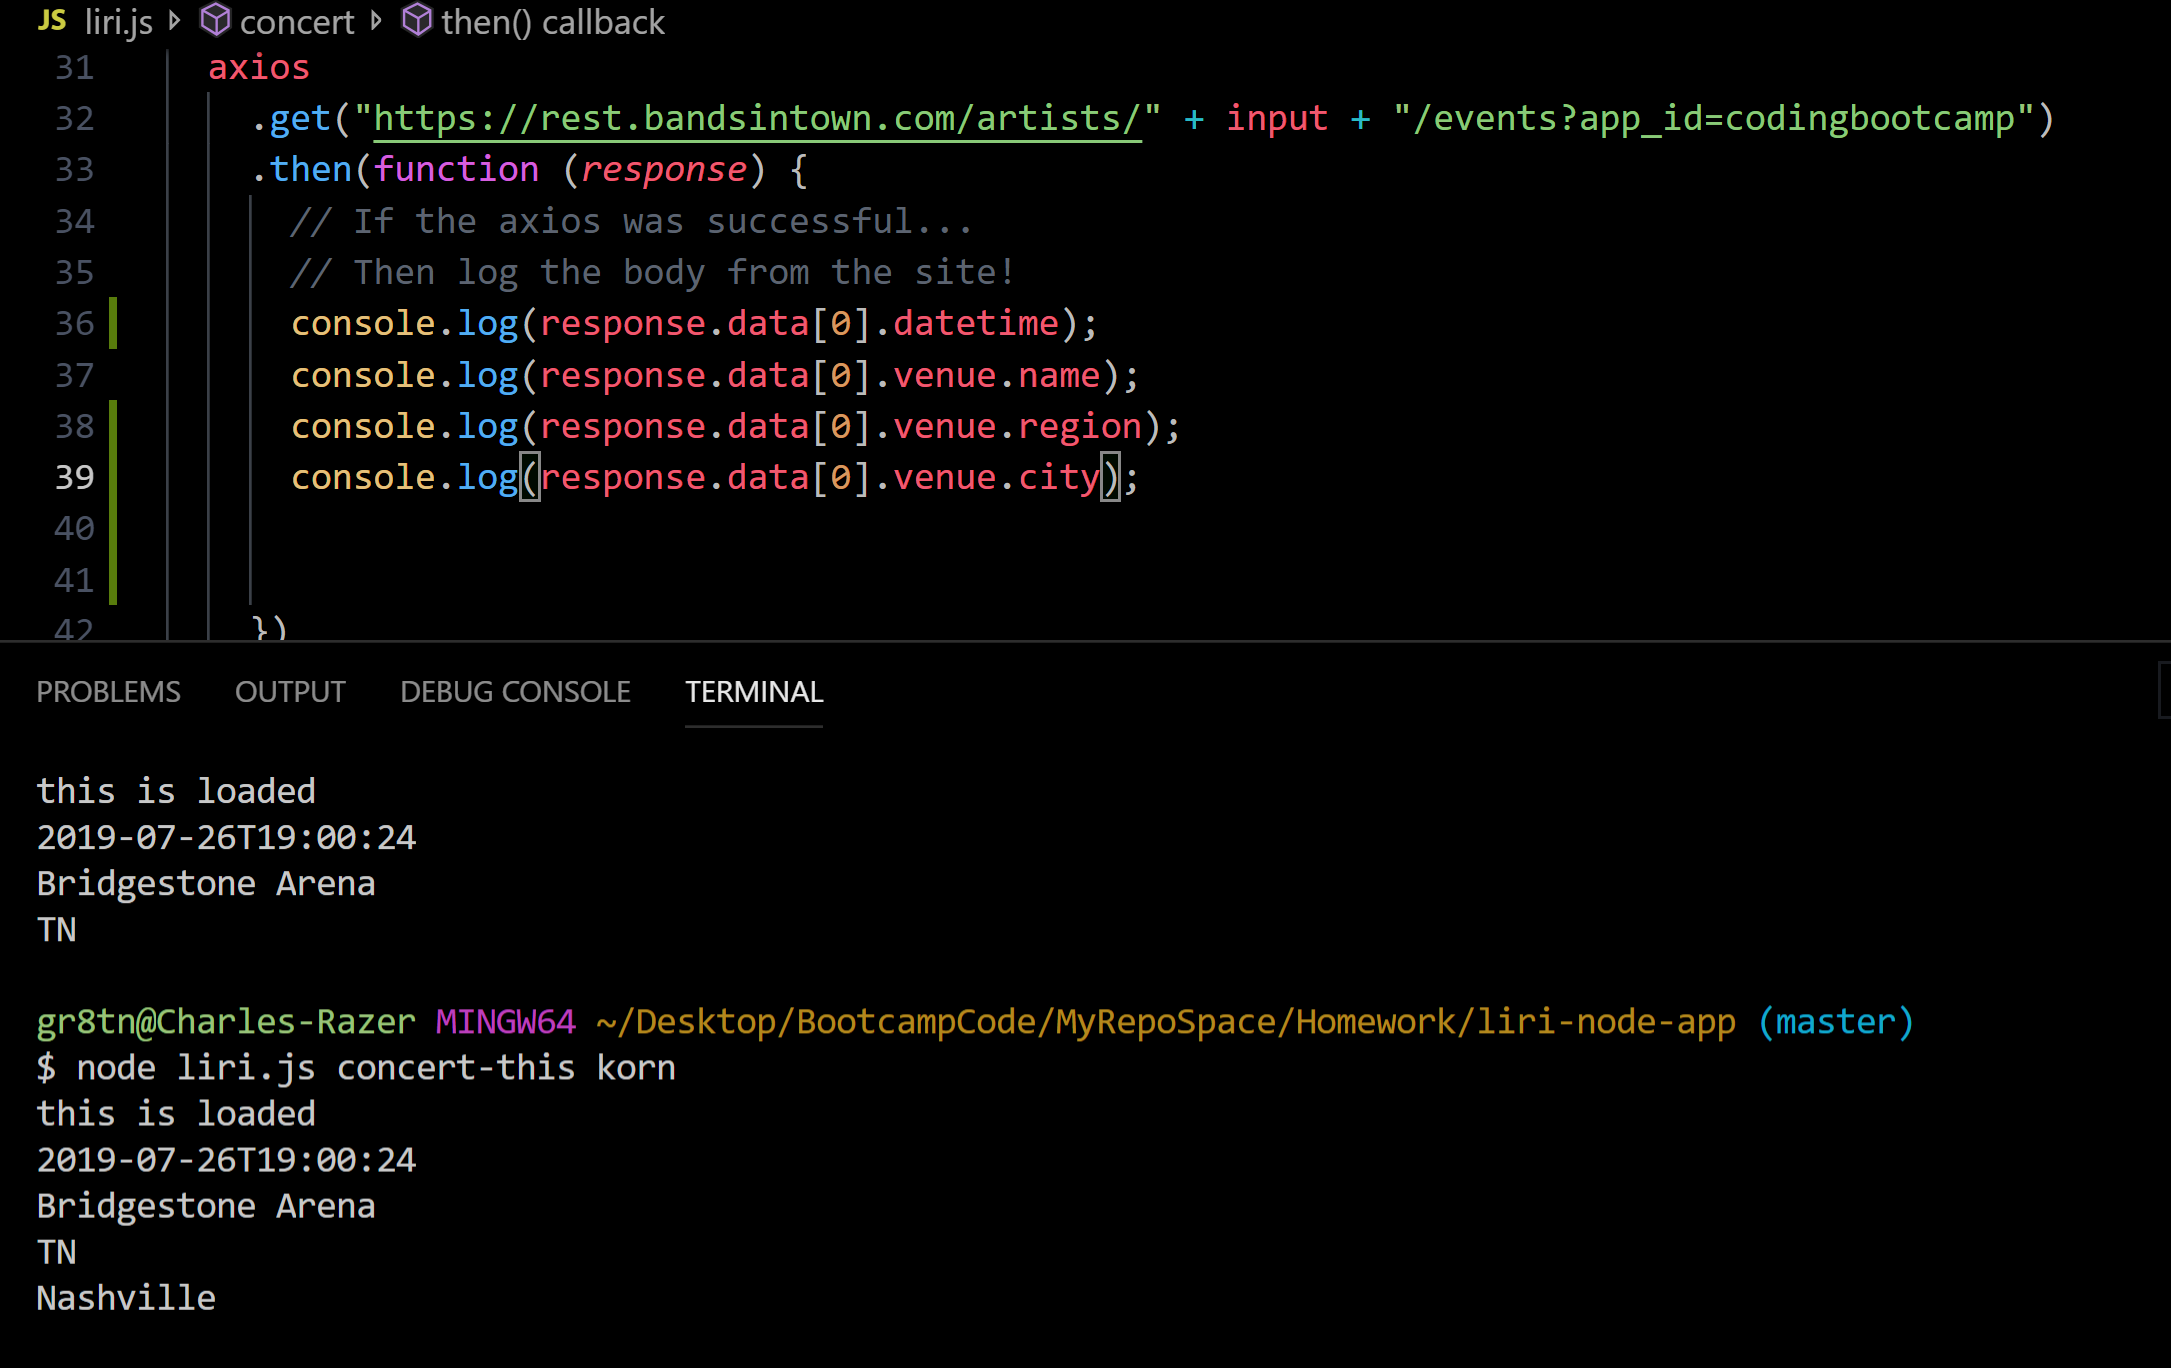
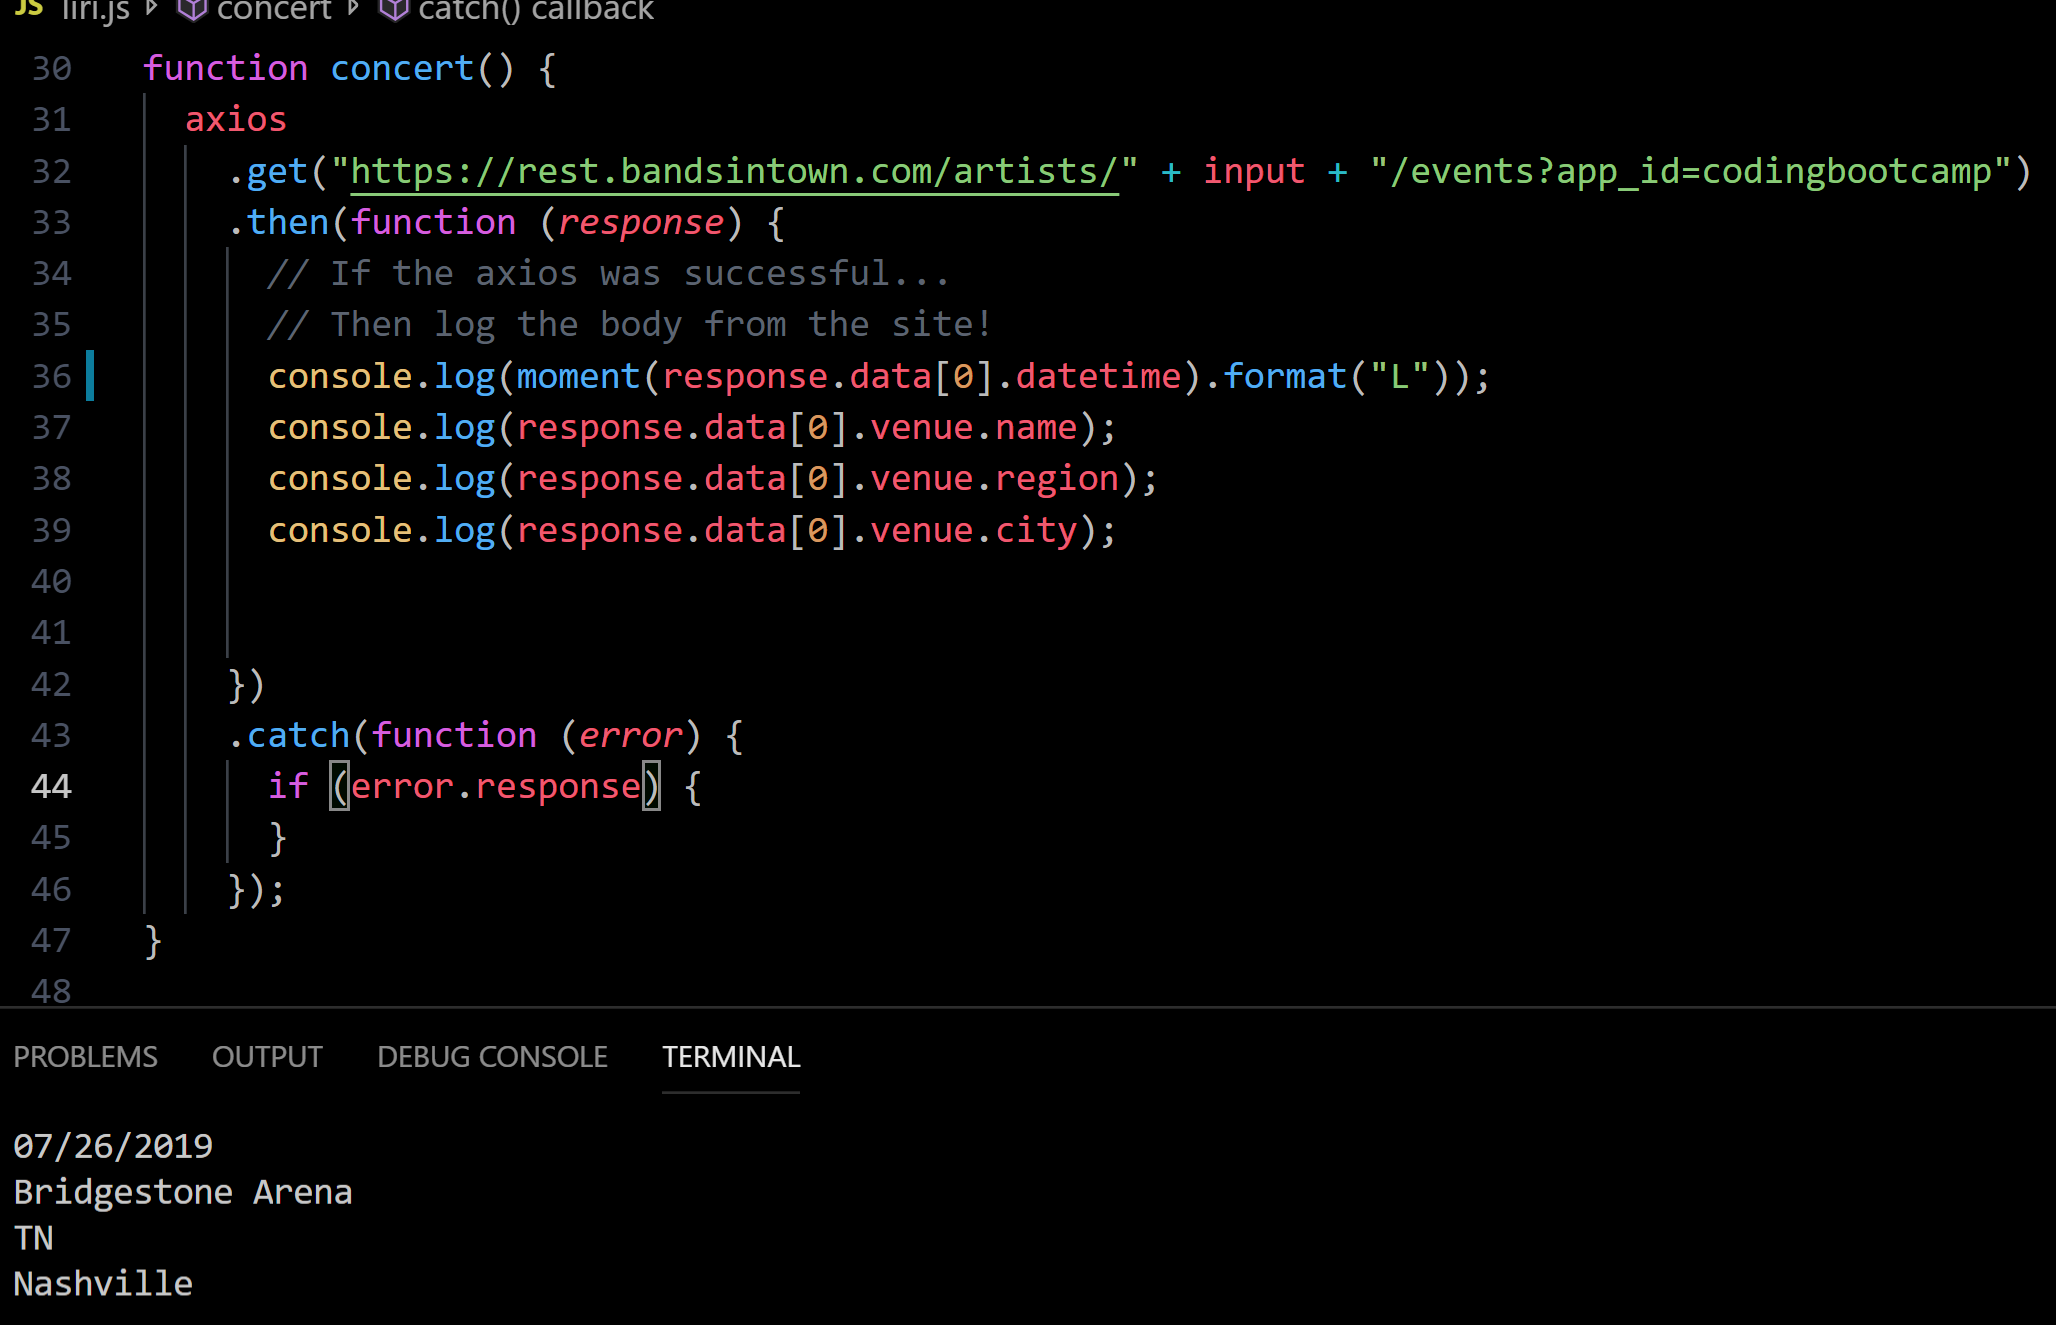
edit concert-this.png added no input for song and movie

diff --git a/liri.js b/liri.js
@@ -15,11 +15,11 @@ switch (command) {
     break;
 
   case "spotify-this-song":
-    song();
+    song(input);
     break;
 
   case "movie-this":
-    movie();
+    movie(input);
     break;
 
   case "do-what-it-says":
@@ -33,7 +33,7 @@ function concert() {
     .then(function (response) {
       // If the axios was successful...
       // Then log the body from the site!
-      console.log(response.data[0].datetime);
+      console.log(moment(response.data[0].datetime).format("L"));
       console.log(response.data[0].venue.name);
       console.log(response.data[0].venue.region);
       console.log(response.data[0].venue.city);
@@ -46,25 +46,49 @@ function concert() {
     });
 }
 
-function song() {
-
-  spotify.search({ type: 'track', query: input }, function (err, data) {
-    if (err) {
-      return console.log('Error occurred: ' + err);
-    }
-    if (!input) {
-      input === "The Sign"
-    }
-
+function song(input) {
+  if (input ==="") {
+      type = "track"
+      input = "Ace of Base"
+   }
+  spotify.search({ type: "track", query: input }, function (err, data) {
     console.log(data.tracks.items[0].album.artists[0].name);
     console.log(data.tracks.items[0].name)
     console.log(data.tracks.items[0].preview_url);
     console.log(data.tracks.items[0].album.name);
+    if (err) {
+      return console.log("Error occurred:"  + err);
+    }
+  })
+ }
 
-  });
-}
+// function song() {
+//   var ace = function () {
+//     if (input = '') {
+//       type = 'track'
+//       input = 'Ace of Base'
+//     }
+//   }
+
+//   spotify.search({ type: 'track', query: input }, function (err, data) {
+//     if (err) {
+//       return console.log('Error occurred: ' + err);
+//     }
+
+//     console.log(data.tracks.items[0].album.artists[0].name);
+//     console.log(data.tracks.items[0].name)
+//     console.log(data.tracks.items[0].preview_url);
+//     console.log(data.tracks.items[0].album.name);
+
+//     ace();
+
+//   });
+// }
 
 function movie() {
+    if (input ==="") {
+        input = "Mr. Nobody"
+     }
   axios
     .get("http://www.omdbapi.com/?apikey=trilogy&t=" + input)
     .then(function (response) {
